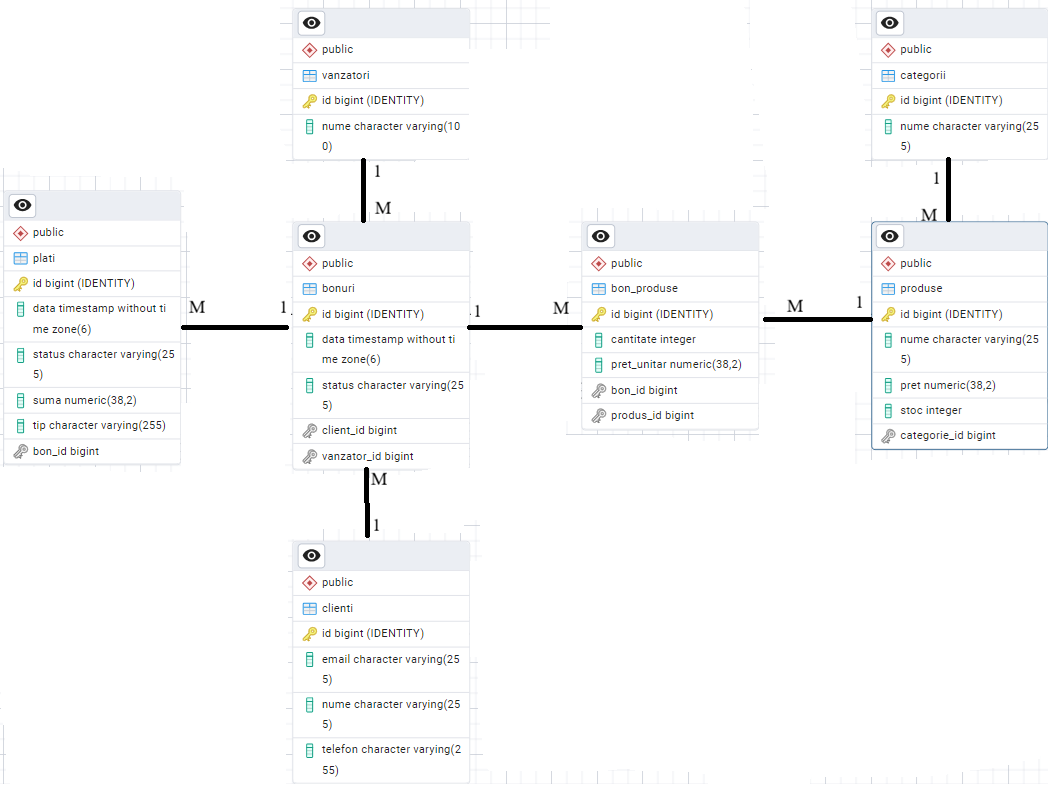
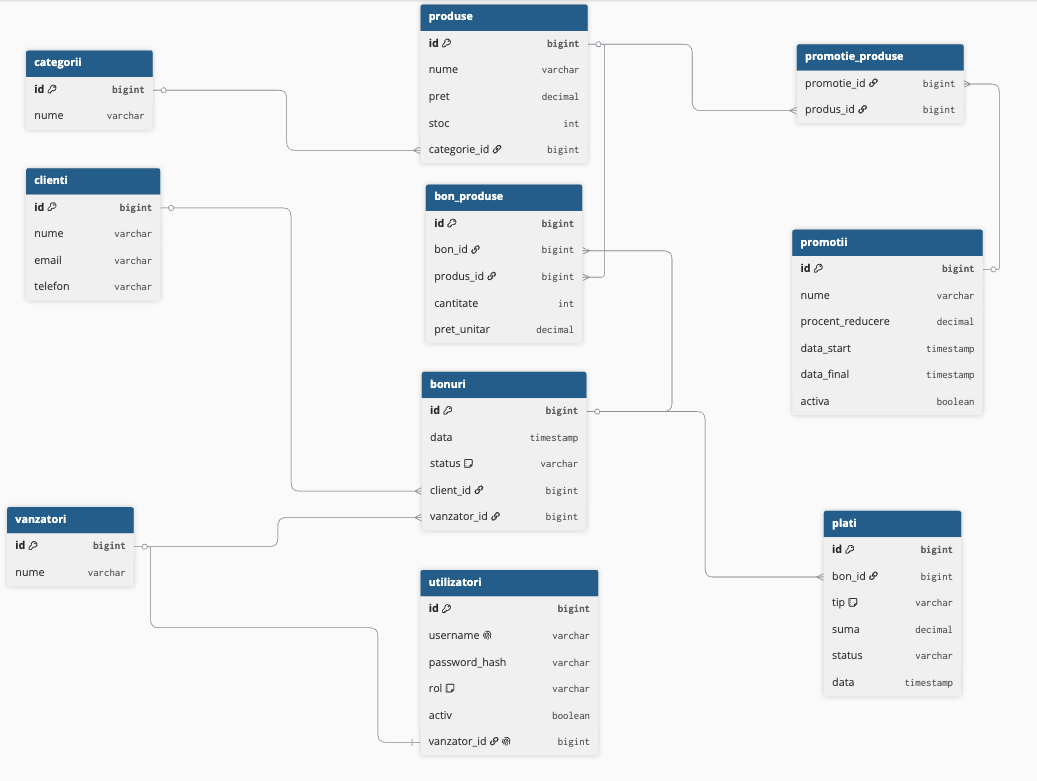
Diagrama ER noua din dbdiagram.io

diff --git a/README.md b/README.md
@@ -45,23 +45,15 @@ Aplicația respectă următoarele cerințe de business:
 ## Diagrama ER
 Diagrama Entitate–Relație descrie structura bazei de date și relațiile dintre entități.
 
-```mermaid
-erDiagram
-    CATEGORIE ||--o{ PRODUS : "contine"
-    PRODUS }o--o{ PROMOTIE : "participa la"
-    CLIENT ||--o{ BON : "plaseaza"
-    VANZATOR ||--o{ BON : "emite"
-    VANZATOR ||--|| UTILIZATOR : "are cont"
-    BON ||--o{ BON_PRODUS : "contine"
-    PRODUS ||--o{ BON_PRODUS : "apare pe"
-    BON ||--o{ PLATA : "este platit prin"
-```
+![ERD Diagram](ERD_POS.png)
+
+Notația foloseste simbolurile standard "crow's foot": un cerc/linie simplă la un capăt înseamnă "1", iar furculița (trei linii) înseamnă "multe" (N/M).
 
 ### Tipuri de relații
 
 - **`@OneToOne`**: `Vanzator` ↔ `Utilizator` (fiecare vânzător are cel mult un cont de logare)
 - **`@ManyToOne` / `@OneToMany`**: `Categorie` → `Produs`, `Client` → `Bon`, `Vanzator` → `Bon`, `Bon` → `BonProdus`, `Produs` → `BonProdus`, `Bon` → `Plata`
-- **`@ManyToMany`**: `Produs` ↔ `Promotie` (un produs poate fi în mai multe promoții, o promoție poate acoperi mai multe produse), tabel de legătură `promotie_produse`
+- **`@ManyToMany`**: `Produs` ↔ `Promotie`, prin tabelul asociativ `promotie_produse` (un produs poate fi în mai multe promoții, o promoție poate acoperi mai multe produse)
 
 ---
 